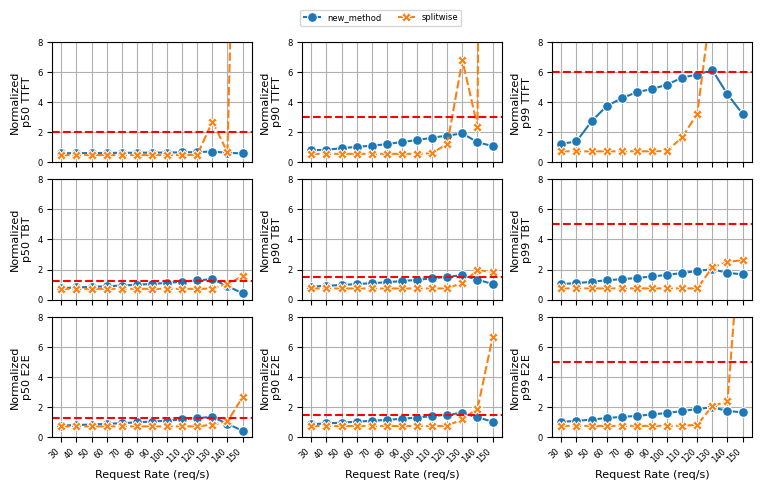
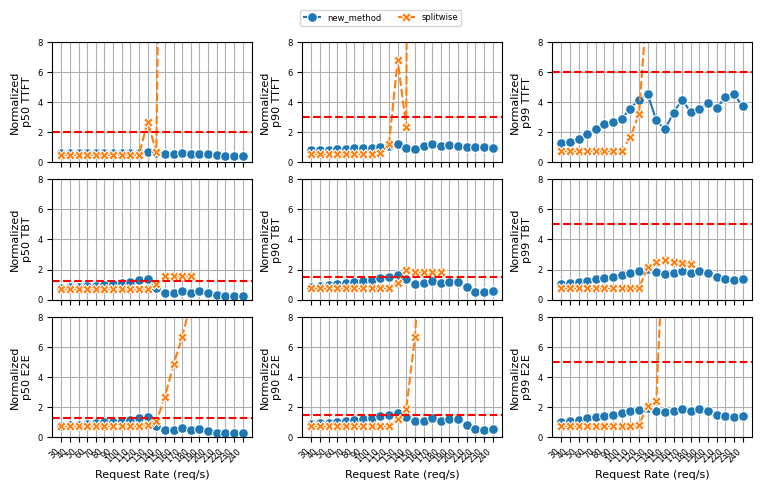
1

diff --git a/scheduler.py b/scheduler.py
@@ -737,6 +737,74 @@ class MixedPoolScheduler(KVScheduler):
         token_instance.sched_pending_tokens += 1
         print("prompt instance num is", len(self.prompt_instances), ",token instance num is",
               len(self.token_instances), "mixed instance num is", len(self.mixed_instances))
+        
+    # def run_request(self, request):
+    #     """
+    #     重写 run_request 以支持调度失败的情况。
+    #     这是由 NoOpRouter 触发的入口点。
+    #     """
+    #     # 1. 尝试调度
+    #     is_scheduled = self.schedule(request)
+
+    #     if is_scheduled:
+    #         # --- 成功路径 ---
+    #         # 只有调度成功了，Instance 被赋值了，才运行后续逻辑
+    #         request.run_on_executor()
+
+    #         # 记录调度开销 (保持原有逻辑)
+    #         # ... (如果有时间测量的代码放在这) ...
+
+    #         self.spawn_executor(self.executor_type, request)
+
+    #         # 只要在队列里就移除 (如果请求是刚来的，可能还没在队列里，所以要check)
+    #         if request in self.pending_queue:
+    #             self.pending_queue.remove(request)
+
+    #         self.executing_queue.append(request)
+    #     else:
+    #         # --- 失败路径 (显存满) ---
+    #         # 1. 确保请求在 pending_queue 里
+    #         if request not in self.pending_queue:
+    #             self.pending_queue.append(request)
+
+    #         # 2. 什么都不做，直接返回。
+    #         # 请求会留在 pending_queue 中，等待其他请求完成后触发重试。
+    #         pass
+        
+    # def request_completion(self, request):
+    #     """
+    #     当一个任务完成时，它会释放显存。
+    #     这是唤醒被反压暂停的任务的关键时刻。
+    #     """
+    #     # 1. 标准完成逻辑 (释放资源、记录数据等)
+    #     super().request_completion(request)
+
+    #     # 2. 显存已释放，尝试处理积压的等待队列
+    #     # 使用 While 循环尝试尽可能多地放入排队的任务
+    #     if len(self.pending_queue) > 0:
+    #         # 这是一个简单的重试逻辑。
+    #         # 注意：在复杂的事件循环中，如果 pending_queue 很长，
+    #         # 递归调用 run_request 可能会有问题，但通常 simulation 深度不深。
+    #         # 这里我们只尝试唤醒队头 (FIFO)，避免饥饿。
+
+    #         # 取出队头，但先不 pop，因为不确定能否调度成功
+    #         retry_request = self.pending_queue[0]
+
+    #         # 尝试再次运行
+    #         # 如果成功，run_request 内部会把它从 pending_queue remove 掉
+    #         # 如果失败，它依然在 queue 里，我们停止重试循环
+    #         is_scheduled = self.schedule(retry_request)
+
+    #         if is_scheduled:
+    #             retry_request.run_on_executor()
+    #             self.spawn_executor(self.executor_type, retry_request)
+    #             self.pending_queue.pop(0)  # 移除队头
+    #             self.executing_queue.append(retry_request)
+
+    #             # 如果成功了一个，可以尝试递归查看下一个 (贪心填充)
+    #             # self.request_completion(None) # 这种递归需要小心，简单起见先不加
+
+
 
 
 class AdaptiveMixedPoolScheduler(KVScheduler):
@@ -1191,6 +1259,7 @@ class AdaptiveMixedPoolScheduler(KVScheduler):
         # 如果没有新完成的请求，返回0
         return 0, 0, 0, 0
 
+
 class LyapunovScheduler(MixedPoolScheduler):
     """
     Lyapunov-based Scheduler that minimizes Drift-plus-Penalty.
@@ -1571,8 +1640,6 @@ class SeparateMixedScheduler(KVScheduler):
         token_instance.sched_pending_tokens += 1
 
 
-
-
 class UnifiedFluidScheduler(KVScheduler):
     """
     Fluid Scheduler:
@@ -1633,48 +1700,77 @@ class UnifiedFluidScheduler(KVScheduler):
         else:
             return 1 * 0.001  # Decoding one token takes longer relative to prefill/token
 
+    def instance_task_type(self,instance):
+        has_prompt = False
+        has_token = False
+        
+        # Check pending queue
+        for task in instance.pending_queue:
+            if isinstance(task, PromptTask):
+                has_prompt = True
+            elif isinstance(task, TokenTask):
+                has_token = True
+        
+        # Check executing batch
+        for task in instance.batch:
+            if isinstance(task, PromptTask):
+                has_prompt = True
+            elif isinstance(task, TokenTask):
+                has_token = True
+        return has_prompt,has_token
+
+            
     def calculate_cost(self, p_node, t_node, request, prompt_task, token_task):
         """
         Core logic: Calculate the 'Virtual Cost' of a path.
         """
 
-        # 1. 基础等待成本 (Load Balancing)
+        # 1. Base Wait Cost (Load Balancing)
+        # Use queue length as a proxy for wait time
         wait_cost_p = len(p_node.pending_requests) * 0.01
         wait_cost_t = len(t_node.pending_requests) * 0.01
 
-        # 2. 传输成本
+        # 2. Transfer Cost (Communication)
         transfer_cost = 0
+        kv_size = request.estimate_kv_cache_size(prompt_task.prompt_size, p_node.model)
+
         if p_node != t_node:
-            kv_size = request.estimate_kv_cache_size(prompt_task.prompt_size, p_node.model)
-            # 在仿真里，物理传输很快，overlap假设也很快
-            transfer_cost = (kv_size / self.transfer_bandwidth) * 0.5
-            # 调小这个系数！让调度器更愿意传输 (更像 Splitwise)
+            raw_transfer_time = kv_size / self.transfer_bandwidth
 
-        # 3. 干扰成本 (关键优化点！！！)
+            if self.enable_pipelining:
+                # If pipelined, transfer is hidden behind compute (or vice-versa)
+                # Cost is max(compute, transfer) - compute [overhead only]
+                # For simplicity in cost function, we penalize only the non-overlapped part.
+                # Here we conservatively add a fraction of transfer time as latency overhead.
+                transfer_cost = raw_transfer_time * 0.1  # Optimistic overlap
+            else:
+                transfer_cost = raw_transfer_time
+
+        # 3. Interference Cost (Mixing Penalty)
+        # If the P-Node is already serving T-tasks (acting as a T-node),
+        # adding a P-task introduces contention (Cache trashing, bandwidth contention).
         interference_cost = 0
+        # if p_node == t_node:
+        #     # Check if this node is "heavy" with decoding
+        #     if p_node.sched_pending_tokens > 10:  # Threshold for "Active T Node"
+        #         # The P task will slow down existing T tasks, and run slower itself.
+        #         estimated_p_time = self.estimate_compute_time(prompt_task, p_node)
+        #         interference_cost = estimated_p_time * self.interference_penalty
+        _,has_t = self.instance_task_type(p_node)
+        if has_t:
+            interference_cost += prompt_task.prompt_size * 0.0005 * (1+self.interference_penalty)
+        else:
+            interference_cost += prompt_task.prompt_size * 0.0005 
+        has_p,_ = self.instance_task_type(t_node)
+        if has_p:
+            interference_cost += 0.001 * (1+self.interference_penalty)
+        else:
+            interference_cost += 0.001
 
-        # 判断 t_node 是否正在高强度 decoding
-        is_t_busy = t_node.sched_pending_tokens > 0
-
-        if p_node == t_node and is_t_busy:
-            # 如果该节点已经在跑 T 任务，再塞进一个 P 任务
-            # 我们要给一个巨大的惩罚，哪怕它看起来空闲
-
-            # 动态干扰因子：
-            # 如果负载低 (pending queue 小)，我们严厉禁止混合 (高 Cost)
-            # 如果负载高 (到处都在排队)，我们不得不混合 (降低 Cost)
-
-            cluster_load_factor = len(p_node.pending_requests) / 20.0  # 假设 20 是阈值
-
-            # 低负载下 Penalty 极大 (100)，迫使系统走分离路径
-            # 高负载下 Penalty 变小 (允许混合以消化堆积的队列)
-            base_penalty = 1000.0 if cluster_load_factor < 0.5 else 0.5
-
-            estimated_p_time = self.estimate_compute_time(prompt_task, p_node)
-            interference_cost = estimated_p_time * base_penalty
-
-        # Total Cost
-        return wait_cost_p + wait_cost_t + transfer_cost + interference_cost
+        # Total Cost Function
+        total_cost = wait_cost_p + wait_cost_t + transfer_cost + interference_cost
+        return total_cost
+# 增加轻载时pt专用化
 
     def check_memory_feasibility(self, instance, new_memory_demand):
         """检查是否有足够的未来显存，防止死锁的关键"""

diff --git a/notebooks/generate_plots.py b/notebooks/generate_plots.py
@@ -19,8 +19,10 @@ plt.rcParams.update({
 })
 
 results_dir = "../results"
-plots_dir = "../plots/Unified"
+plots_dir = "../plots/Unified/"
 perf_model_path = "../data/perf_model.csv"
+os.makedirs(plots_dir, exist_ok=True)
+
 
 def get_data(configs, traces, seed, quantiles=[0.5, 0.9, 0.99], model=""):
     """
@@ -127,7 +129,8 @@ def plot_y_vs_trace_new(results_df,
                        y_vars=["ttft_times", "tbt_times", "e2e_times"],
                        y_vars_labels=["TTFT", "TBT", "E2E"],
                        quantiles=[0.5, 0.9, 0.99],
-                       title=None):
+                       title=None,
+                       save_path=None):
     """
     Create plots showing performance metrics vs trace/load.
     """
@@ -179,13 +182,15 @@ def plot_y_vs_trace_new(results_df,
     plt.margins(x=0)
     # Set 300dpi
     plt.gcf().set_dpi(300)
+    plt.savefig(save_path+"-TTFT.png", bbox_inches='tight')
 
 def plot_additional_metrics(results_df,
                            traces,
                            y_vars=["nth_token_overheads", "queue_times"],
                            y_vars_labels=["Nth Token Overheads", "Queue Times"],
                            quantiles=[0.5, 0.9, 0.99],
-                           title=None):
+                           title=None,
+                           save_path=None):
     """
     Create plots for additional metrics like nth_token_overheads and queue_times.
     """
@@ -234,6 +239,8 @@ def plot_additional_metrics(results_df,
     plt.margins(x=0)
     # Set 300dpi
     plt.gcf().set_dpi(300)
+    plt.savefig(save_path+".png", bbox_inches='tight')
+    
 
 def main():
     """
@@ -259,10 +266,12 @@ def main():
     # Define traces for different loads (rr_code_x where x varies)
     traces_index = 0
     traces_name =['conv','code']
-    traces = [f"rr_{traces_name[traces_index]}_{i}" for i in range(30, 160, 10)]  # Example range
+    traces = [f"rr_{traces_name[traces_index]}_{i}" for i in range(30, 250, 10)]  # Example range
     
     # Get data
     results_df, request_dfs = get_data(configs, traces, seed=0, model="bloom-176b")
+    
+    name = traces_name[traces_index]+configs[0]["scheduler"]+"Unified"
     
     # Generate plots for slowdown metrics
     plot_y_vs_trace_new(
@@ -270,13 +279,10 @@ def main():
         traces,
         y_vars=["ttft_slowdown", "tbt_slowdown", "e2e_slowdown"],
         y_vars_labels=["TTFT", "TBT", "E2E"],
-        title=None
+        title=None,
+        save_path=plots_dir+name
     )
     
-    # Save plot
-    os.makedirs(plots_dir, exist_ok=True)
-    name = traces_name[traces_index]+configs[0]["scheduler"]+"Unified"
-    plt.savefig(f"{plots_dir}/{name}-TTFT.png", bbox_inches='tight')
     
     # Generate plots for additional metrics (nth_token_overheads and queue_times)
     plot_additional_metrics(
@@ -284,12 +290,10 @@ def main():
         traces,
         y_vars=["nth_token_overheads", "queue_times"],
         y_vars_labels=["Nth Token Overheads", "Queue Times"],
-        title=None
+        title=None,
+        save_path=plots_dir+name
     )
     
-    # Save additional metrics plot
-    plt.savefig(f"{plots_dir}/{name}.png", bbox_inches='tight')
-    # plt.show()
 
 if __name__ == "__main__":
     main()

diff --git a/notebooks/count_link.py b/notebooks/count_link.py
@@ -1,0 +1,73 @@
+import os
+import pandas as pd
+import matplotlib.pyplot as plt
+import numpy as np
+
+# 设置中文字体支持
+plt.rcParams['font.sans-serif'] = ['SimHei', 'Arial Unicode MS', 'DejaVu Sans']
+plt.rcParams['axes.unicode_minus'] = False
+
+def count_dummy_links(rr_conv_value, pool_type):
+    """
+    统计指定 rr_conv 值目录下指定 pool_type 目录中 request_nodes.csv 中 DummyLink 的数量
+    """
+    base_path = f"/home/xfusion/conda/splitwise-DRL/results/0/splitwise_25_15/rr_conv_{rr_conv_value}/0_40/bloom-176b/{pool_type}"
+    file_path = os.path.join(base_path, "request_nodes.csv")
+    
+    # 检查文件是否存在
+    if not os.path.exists(file_path):
+        print(f"文件不存在: {file_path}")
+        return 0
+    
+    # 读取文件并统计 DummyLink 数量
+    try:
+        df = pd.read_csv(file_path)
+        dummy_link_count = len(df[df['runner'] == 'DummyLink'])
+        return dummy_link_count
+    except Exception as e:
+        print(f"读取文件时出错 {file_path}: {e}")
+        return 0
+
+def main():
+    # 定义要统计的 rr_conv 值范围 (30 到 250，步长为 10)
+    rr_conv_values = list(range(30, 260, 10))  # 30, 40, 50, ..., 250
+    unified_pool_counts = []
+    mixed_pool_counts = []
+    
+    # 统计每个 rr_conv 值对应的 DummyLink 数量
+    for rr_conv in rr_conv_values:
+        # 统计 Unified_pool 中的 DummyLink 数量
+        unified_count = count_dummy_links(rr_conv, "Unified_pool")
+        unified_pool_counts.append(unified_count)
+        
+        # 统计 mixed_pool 中的 DummyLink 数量
+        mixed_count = count_dummy_links(rr_conv, "mixed_pool")
+        mixed_pool_counts.append(mixed_count)
+        
+        print(f"rr_conv_{rr_conv}: Unified_pool={unified_count}, mixed_pool={mixed_count}")
+    
+    # 绘制图表
+    plt.figure(figsize=(12, 6))
+    plt.plot(rr_conv_values, unified_pool_counts, marker='o', linestyle='-', linewidth=2, markersize=8, label='Unified_pool')
+    plt.plot(rr_conv_values, mixed_pool_counts, marker='s', linestyle='--', linewidth=2, markersize=8, label='mixed_pool')
+    plt.xlabel('rr_conv 值')
+    plt.ylabel('DummyLink 数量')
+    plt.title('不同 rr_conv 值下 Unified_pool 和 mixed_pool 的 DummyLink 数量统计')
+    plt.legend()
+    plt.grid(True, alpha=0.3)
+    
+    # 保存图表
+    plt.tight_layout()
+    plt.savefig('/home/xfusion/conda/splitwise-DRL/notebooks/dummy_link_statistics.png', dpi=300, bbox_inches='tight')
+    plt.show()
+    
+    # 打印汇总信息
+    print("\n统计汇总:")
+    print(f"总共处理了 {len(rr_conv_values)} 个目录")
+    print(f"Unified_pool 中 DummyLink 总数: {sum(unified_pool_counts)}")
+    print(f"mixed_pool 中 DummyLink 总数: {sum(mixed_pool_counts)}")
+    print(f"Unified_pool 平均每个目录的 DummyLink 数量: {np.mean(unified_pool_counts):.2f}")
+    print(f"mixed_pool 平均每个目录的 DummyLink 数量: {np.mean(mixed_pool_counts):.2f}")
+
+if __name__ == "__main__":
+    main()
